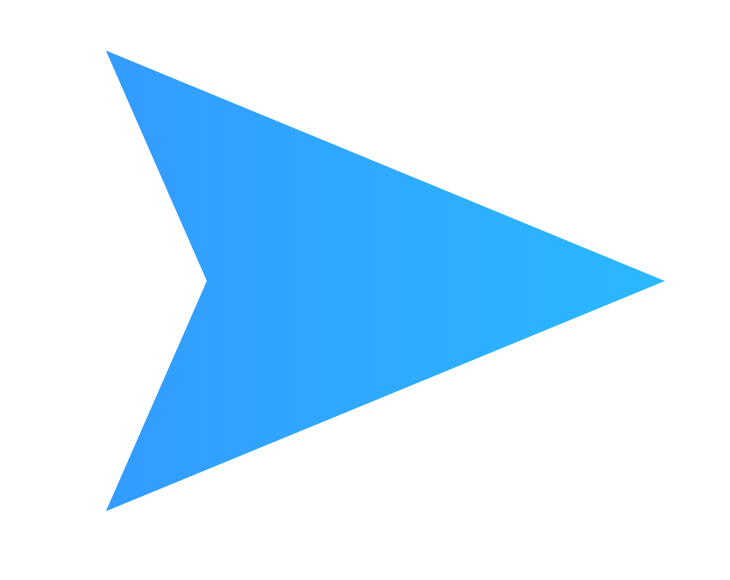
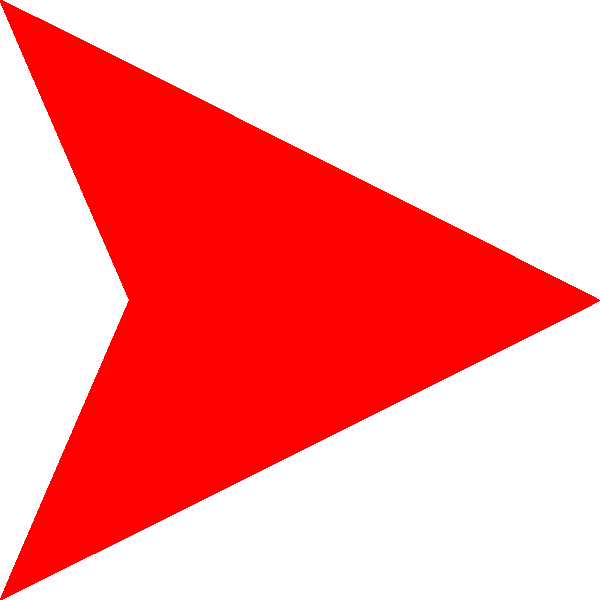
supressing irrelevant comments, changing Texture and so on

diff --git a/Birds/Flock.cpp b/Birds/Flock.cpp
@@ -4,7 +4,6 @@
 #include <cmath>
 #include<random>
 #include<chrono>
-#include<fstream>
 using namespace std;
 unsigned seed = std::chrono::system_clock::now().time_since_epoch().count();
 std::default_random_engine generator (seed); 
@@ -46,7 +45,7 @@ Flock::Flock (int N_birds_,real_t vi_birds,const std::vector<real_t>& speed_dron
     	   l_speed[i]= vi_birds;
         l_pos[i] = pos(Imp {dice(),dice(),dice()}, Rot (dice()*M_PI/180,dice()*M_PI/180));//dice()*M_PI/180));
         l_sprites[i].setTexture(texture);
-        l_sprites[i].setColor(sf::Color(255, 255, 255, 128));//color,opacity 
+        l_sprites[i].setColor(sf::Color(0, 0, 0, 108));//color,opacity 
         l_sprites[i].setOrigin(sf::Vector2f(texture.getSize().x/2,texture.getSize().y/2));//to translate and rotate frm the center of the sprite 
         l_sprites[i].setScale(0.07f,0.07f);//scale of the boid; 
         l_sprites[i].setPosition(sf::Vector2f(l_pos[i].x()*1500, l_pos[i].y()*1200));//initial position of the boid} 
@@ -58,7 +57,7 @@ Flock::Flock (int N_birds_,real_t vi_birds,const std::vector<real_t>& speed_dron
         l_sprites[i].setTexture(texture);
         l_sprites[i].setColor(sf::Color::Blue);//color,opacity 
         l_sprites[i].setOrigin(sf::Vector2f(texture.getSize().x/2,texture.getSize().y/2));//to translate and rotate frm the center of the sprite 
-        l_sprites[i].setScale(0.07f,0.07f);//scale of the boid; 
+        l_sprites[i].setScale(0.09f,0.09f);//scale of the boid; 
         l_sprites[i].setPosition(sf::Vector2f(l_pos[i].x()*1500, l_pos[i].y()*1200));//initial position of the boid} 
         l_sprites[i].setRotation(l_pos[i].p()*180/M_PI);//initial angle of the boid
     }
@@ -66,7 +65,7 @@ Flock::Flock (int N_birds_,real_t vi_birds,const std::vector<real_t>& speed_dron
         l_speed[i] =speed_drones[i-N_birds_];
         l_pos[i] = pos_drones[i-N_birds_];
         l_sprites[i].setTexture(texture);
-        l_sprites[i].setColor(sf::Color::Blue);//color,opacity 
+        l_sprites[i].setColor(sf::Color(120, 0, 0, 128));//color,opacity 
         l_sprites[i].setOrigin(sf::Vector2f(texture.getSize().x/2,texture.getSize().y/2));//to translate and rotate frm the center of the sprite 
         l_sprites[i].setScale(0.07f,0.07f);//scale of the boid; 
         l_sprites[i].setPosition(sf::Vector2f(l_pos[i].x()*1500, l_pos[i].y()*1200));//initial position of the boid} 
@@ -154,19 +153,11 @@ void Flock::update_flock() {
             Fint=1.0/M*Fint;
             Frep=1.0/M*Frep;
         }
-        /*Rot angles_min = l_pos_prec[i] <<l_pos_prec[j_min];
-        Falign += -J*Imp{l_speed_prec[i]-l_speed_prec[j_min]*cos(angles_min.phi())*sin(angles_min.theta()),
-                -l_speed_prec[j_min]*sin(angles_min.theta())*sin(angles_min.phi()),
-                -l_speed_prec[j_min]*cos(angles_min.theta())};
-            Frep = g0*(pow(l0/sqrt(t_dist[i][j_min]), 3)-l0*l0/t_dist[i][j_min])*(l_pos_prec[i]-l_pos_prec[j_min]);*/
-        //F = F/nb_neighb;
         Imp noise = Imp{gauss(),gauss(),gauss()};
         Imp upd_spe = Frep +Fsc+Fint+Imp{l_speed[i],0,0} + 0*noise; //dt =1
         l_speed[i] = !(upd_spe);
         l_pos[i] ^ upd_spe.direction();
-        if (l_speed[i]> 0.01) 
-            l_speed[i] = 0.01;
-        //l_pos[i] ^ F.direction();
+        if (l_speed[i]> 0.01) {l_speed[i] = 0.01;}
         l_sprites[i].setRotation(l_pos[i].p()*180/M_PI);
         l_sprites[i].setPosition(sf::Vector2f(l_pos[i].x()*1500, l_pos[i].y()*1200));
     }

diff --git a/Birds/main_flock.cpp b/Birds/main_flock.cpp
@@ -30,9 +30,10 @@ int main (){
 	//pos_drones[0] = pos(Imp{0.4,0.4,0}, Rot(0,0));
 	
      Flock flock_piaf (400,0.005,speed_drones,pos_drones);//int n_,real_t J_, real_t v0_, real_t rc_, real_t g_
-     flock_piaf.set_parameters (1.1,1.551,0.007,0.00001,0.0007,0.002);//real_t J_, real_t v0_, real_t rc_,real_t g_,l0,g0)
-     
+     flock_piaf.set_parameters (1.1,0.1,0.07,0.00001,0.0007,0.02);//real_t J_, real_t v0_, real_t rc_,real_t g_,l0,g0)
      flock_piaf.set_parameters (0.06,1.551,0.007,0.00001,0.0002,0.02);
+     
+     //flock_piaf.set_parameters (0.06,1.551,0.007,0.00001,0.0002,0.02);
      //flock_piaf.set_parameters (1.0,0.005,0.1,0.01,0.01,1.0);
      
      //std::vector<real_t> speed_birds (3,0.02);
@@ -42,8 +43,8 @@ int main (){
 	//pos_birds.push_back(pos(Imp{0.3,0.3,0},Rot(0,0)));
 	//Flock flock_piaf (speed_birds, pos_birds, 0, 0.02, 0,0.02);
 	//std::vector<pos> l_piafs = flock_piaf.pos_boids();
-	int i;
-	int j;
+	//int i;
+	//int j;
 	/*for (i=0;i<3;i++) {
 		cout << "posi.x() " << l_piafs[i].x() << " " << l_piafs[i].y() << endl;
 	}

diff --git a/Birds/Flock.h b/Birds/Flock.h
@@ -1,6 +1,5 @@
 #ifndef FLOCK_H
 #define FLOCK_H
-#include<fstream>
 #include "../Vec/Vec.h"
 #include "../Position/position.h"
 #include "SFML/Graphics.hpp"
@@ -16,8 +15,7 @@ class Flock {
     std::vector<pos> l_pos_prec;
     std::vector<std::vector<real_t>> t_dist;
     void update_dist ();
-    //void store_data ();
-    //std::vector<sf::Texture> l_sprites;
+    
     public :
     sf::Texture texture;
     std::vector<sf::Sprite> l_sprites;

diff --git a/Position/position.h b/Position/position.h
@@ -12,15 +12,15 @@ using pos = free3d;
 */
 
 
-/*#include "square.h"
-using pos = square;*/
+#include "square.h"
+using pos = square;
 
 
 
 
-#include "annulus.h"
+/*#include "annulus.h"
 using pos = annulus;
-
+*/
 
 
 /*   Position Documentation:
